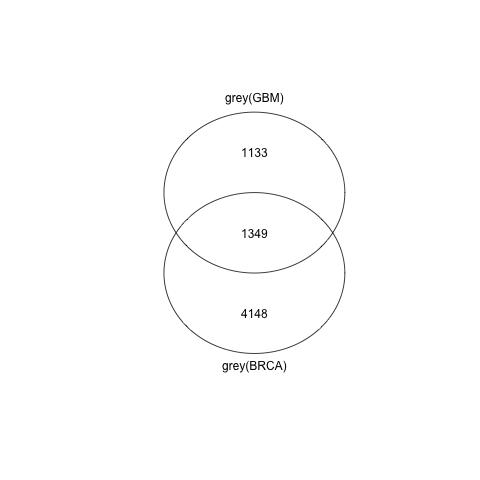
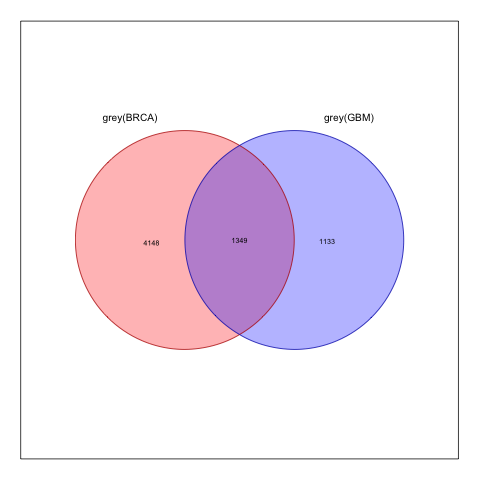
Fix bug in venn diagram (style) Fix incorrectly referenced genes for GBM_OV in README.md

Changed region(s): [[0.1562, 0.1875, 0.8438, 0.7812], [0.0312, 0.0312, 0.9688, 0.9688], [0.6875, 0.2188, 0.7812, 0.25]]

diff --git a/README.md b/README.md
@@ -81,17 +81,17 @@ Item                     | BRCA and GBM               |  GBM and OV             
 :-----------------------:|:-------------------------:|:-------------------------:|:-------------------------:
 |||
 --- Intersection --- |||
-Name | [yellow_lightyellow_genes.txt](results/4_BRCA_GBM_lowP_Intersection_P0_9-5_yellow_lightyellow_genes.txt) | [lightyellow_turquoise_genes.txt](results/4_GBM_OV_lowP_Intersection_P0_5-16_lightyellow_turquoise_genes.txt) | [turquoise_yellow_genes.txt](results/4_OV_BRCA_lowP_Intersection_P0_16-9_turquoise_yellow_genes.txt) 
+Name | [yellow_lightyellow_genes.txt](results/4_BRCA_GBM_lowP_Intersection_P0_9-5_yellow_lightyellow_genes.txt) | [black_brown_genes.txt](results/4_GBM_OV_lowP_Intersection_P0_16-5_black_brown_genes.txt) | [turquoise_yellow_genes.txt](results/4_OV_BRCA_lowP_Intersection_P0_16-9_turquoise_yellow_genes.txt) 
 Lowest p-value | 0 | 0 | 0
 |||
 |||
 --- Unique (A) --- |||
-Name | [yellow_genes.txt](results/4_BRCA_GBM_lowP_UniqueA_P0_9-5_yellow_genes.txt) | [lightyellow_genes.txt](results/4_GBM_OV_lowP_UniqueA_P0_5-16_lightyellow_genes.txt) | [turquoise_genes.txt](results/4_OV_BRCA_lowP_UniqueA_P0_16-9_turquoise_genes.txt)
+Name | [yellow_genes.txt](results/4_BRCA_GBM_lowP_UniqueA_P0_9-5_yellow_genes.txt) | [black_genes.txt](results/4_GBM_OV_lowP_UniqueA_P0_16-5_black_genes.txt) | [turquoise_genes.txt](results/4_OV_BRCA_lowP_UniqueA_P0_16-9_turquoise_genes.txt)
 Lowest p-value | 0 | 0 | 0
 |||
 |||
 --- Unique (B) --- |||
-Name | [lightyellow_genes.txt](results/4_BRCA_GBM_lowP_UniqueB_P0_9-5_lightyellow_genes.txt) | [turquoise_genes.txt](results/4_GBM_OV_lowP_UniqueB_P0_5-16_turquoise_genes.txt) | [yellow_genes.txt](results/4_OV_BRCA_lowP_UniqueB_P0_16-9_yellow_genes.txt)
+Name | [lightyellow_genes.txt](results/4_BRCA_GBM_lowP_UniqueB_P0_9-5_lightyellow_genes.txt) | [brown_genes.txt](results/4_GBM_OV_lowP_UniqueB_P0_16-5_brown_genes.txt) | [yellow_genes.txt](results/4_OV_BRCA_lowP_UniqueB_P0_16-9_yellow_genes.txt)
 Lowest p-value | 0 | 0 | 0
 
 <br/><br/>
@@ -102,7 +102,7 @@ Lowest p-value | 0 | 0 | 0
 BRCA and GBM               |  GBM and OV               | OV and BRCA
 :-------------------------:|:-------------------------:|:-------------------------:
 ![BRCA_GBM](results/5_BRCA_GBM_heatmap_gene_module_pairs.png)  |  ![GBM_OV](results/5_GBM_OV_heatmap_gene_module_pairs.png) |  ![OV_BRCA](results/5_OV_BRCA_heatmap_gene_module_pairs.png)
-![BRCA_GBM](results/4_Venn_Diagram_BRCA_GBM_lowP0_Gene_Overlap_Modules_yellow_yellow.png)  |  ![GBM_OV](results/4_Venn_Diagram_GBM_OV_lowP0_Gene_Overlap_Modules_black_black.png) |  ![OV_BRCA](results/4_Venn_Diagram_OV_BRCA_lowP0_Gene_Overlap_Modules_turquoise_turquoise.png)
+![BRCA_GBM](results/4_Venn_Diagram_BRCA_GBM_lowP0_Gene_Overlap_Modules_yellow_lightyellow.png)  |  ![GBM_OV](results/4_Venn_Diagram_GBM_OV_lowP0_Gene_Overlap_Modules_black_brown.png) |  ![OV_BRCA](results/4_Venn_Diagram_OV_BRCA_lowP0_Gene_Overlap_Modules_turquoise_yellow.png)
 
 <br/><br/>
 
